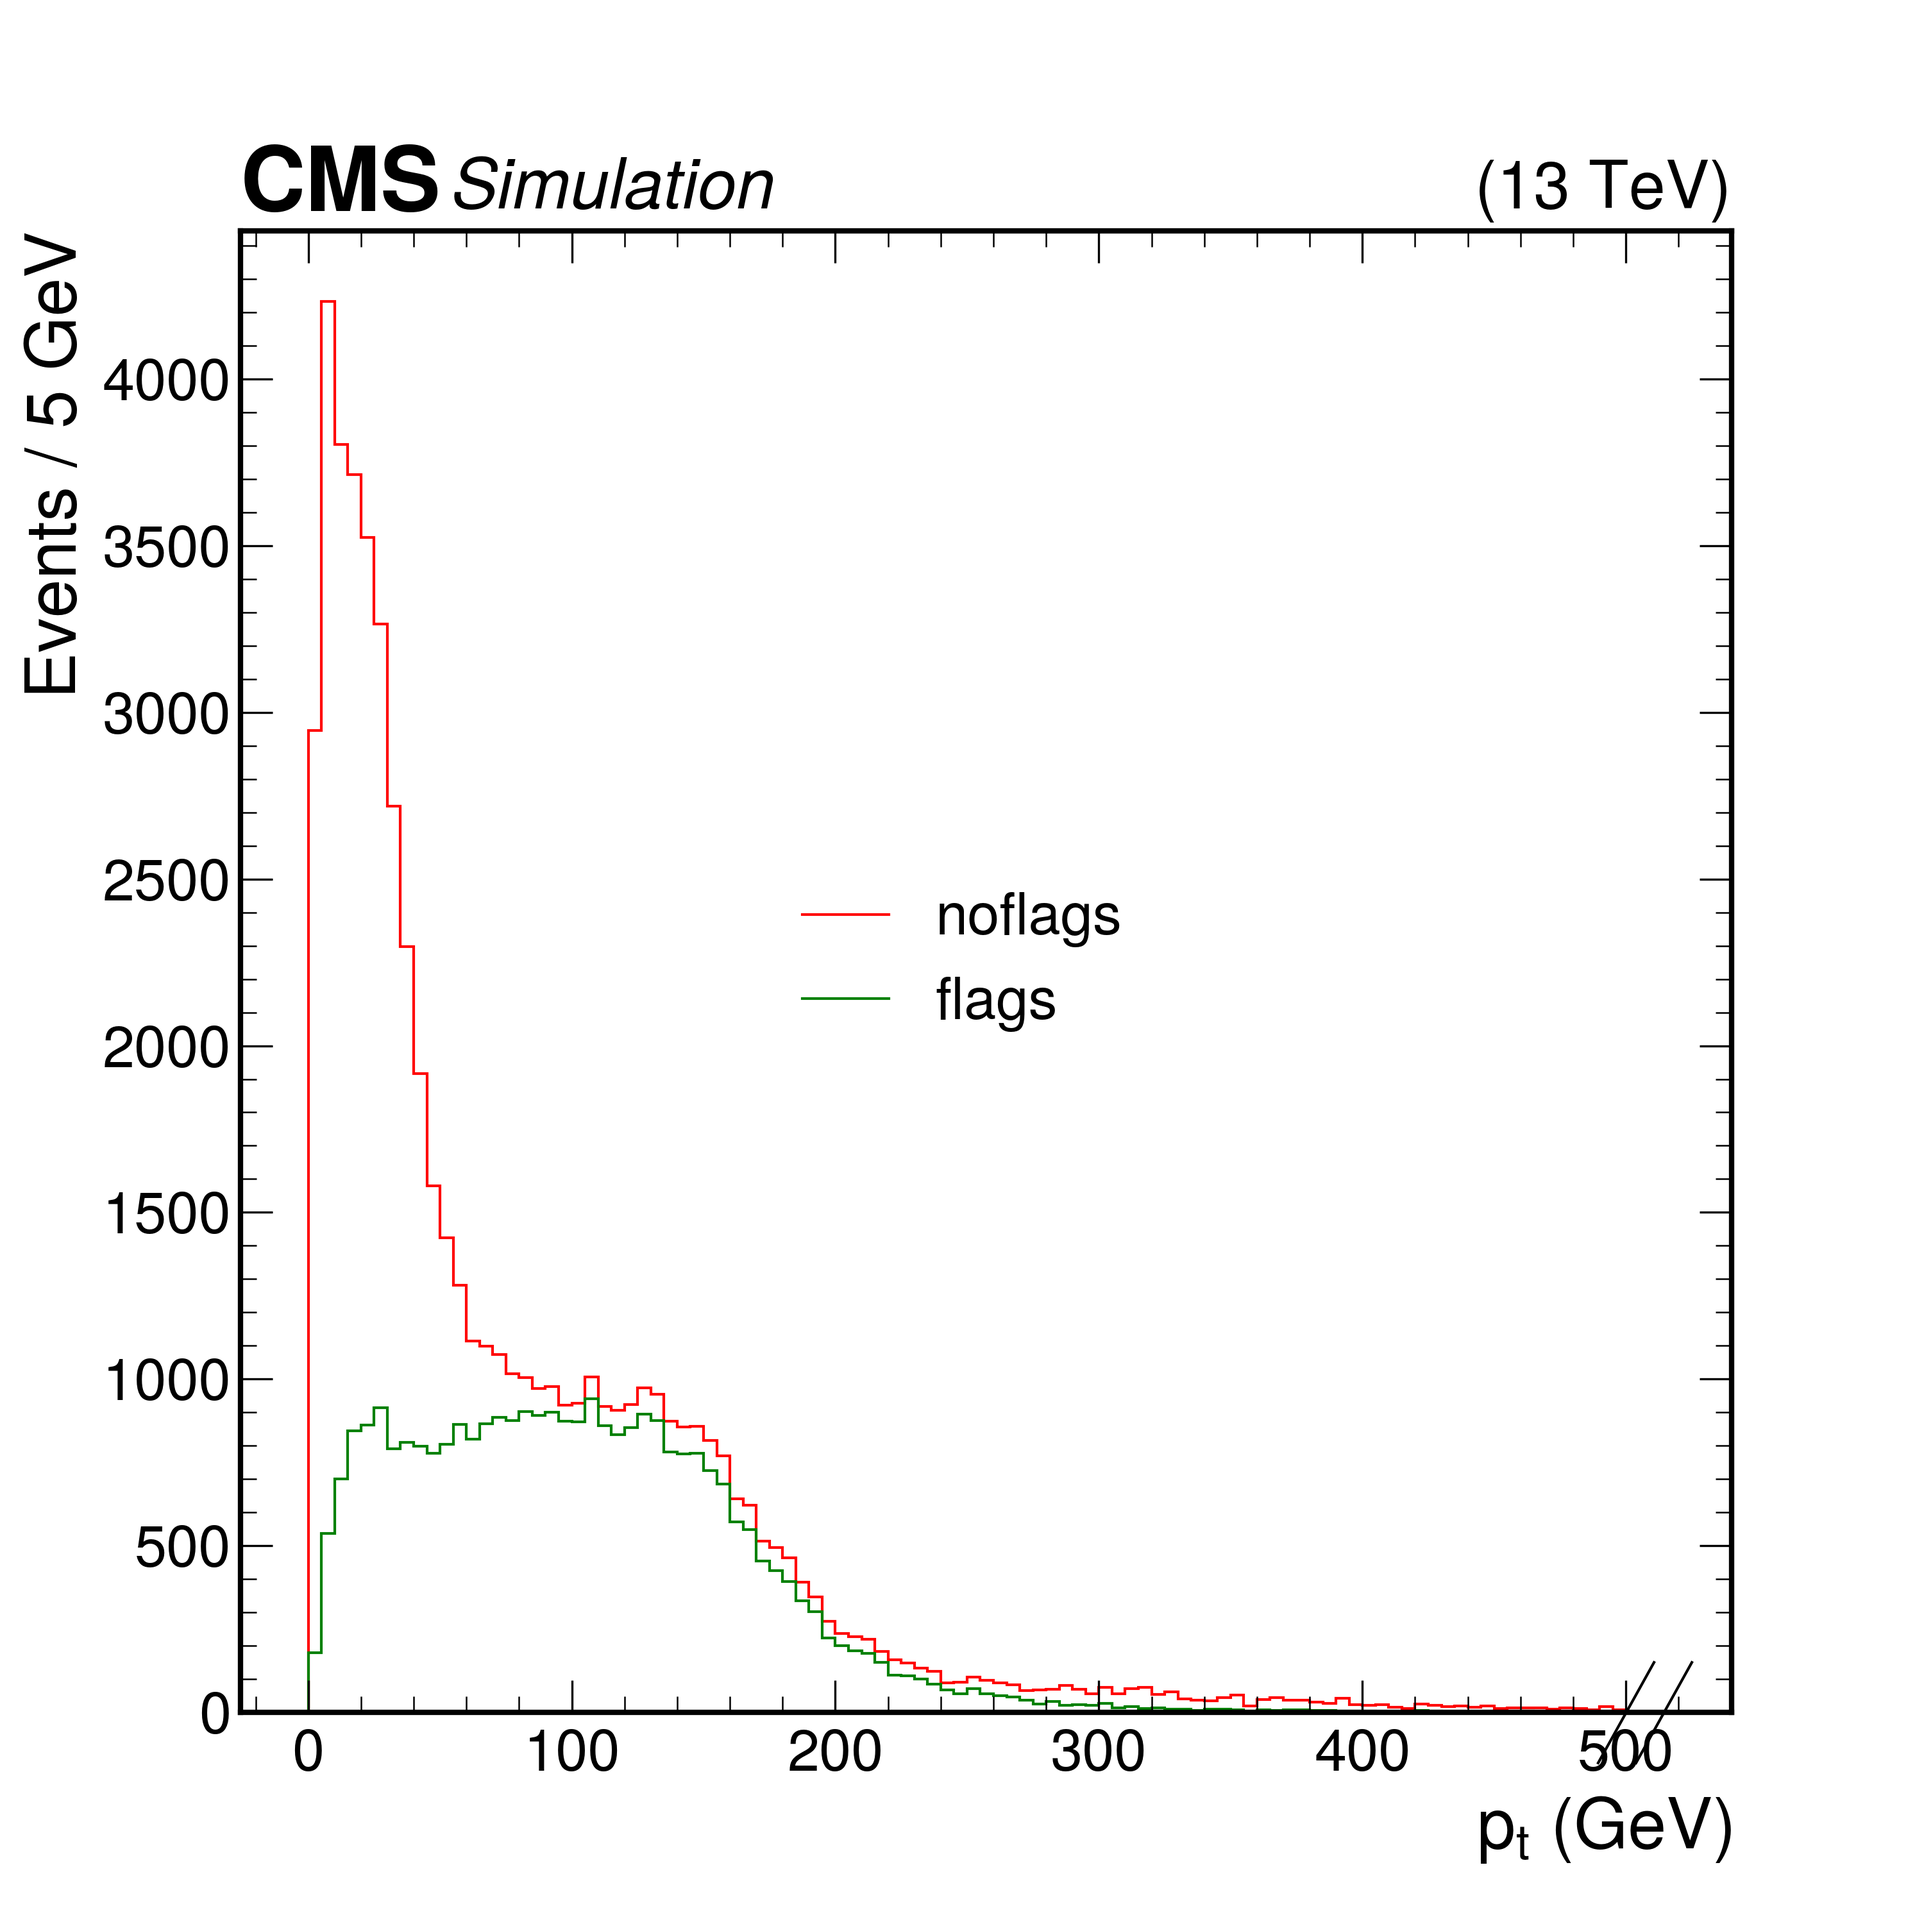
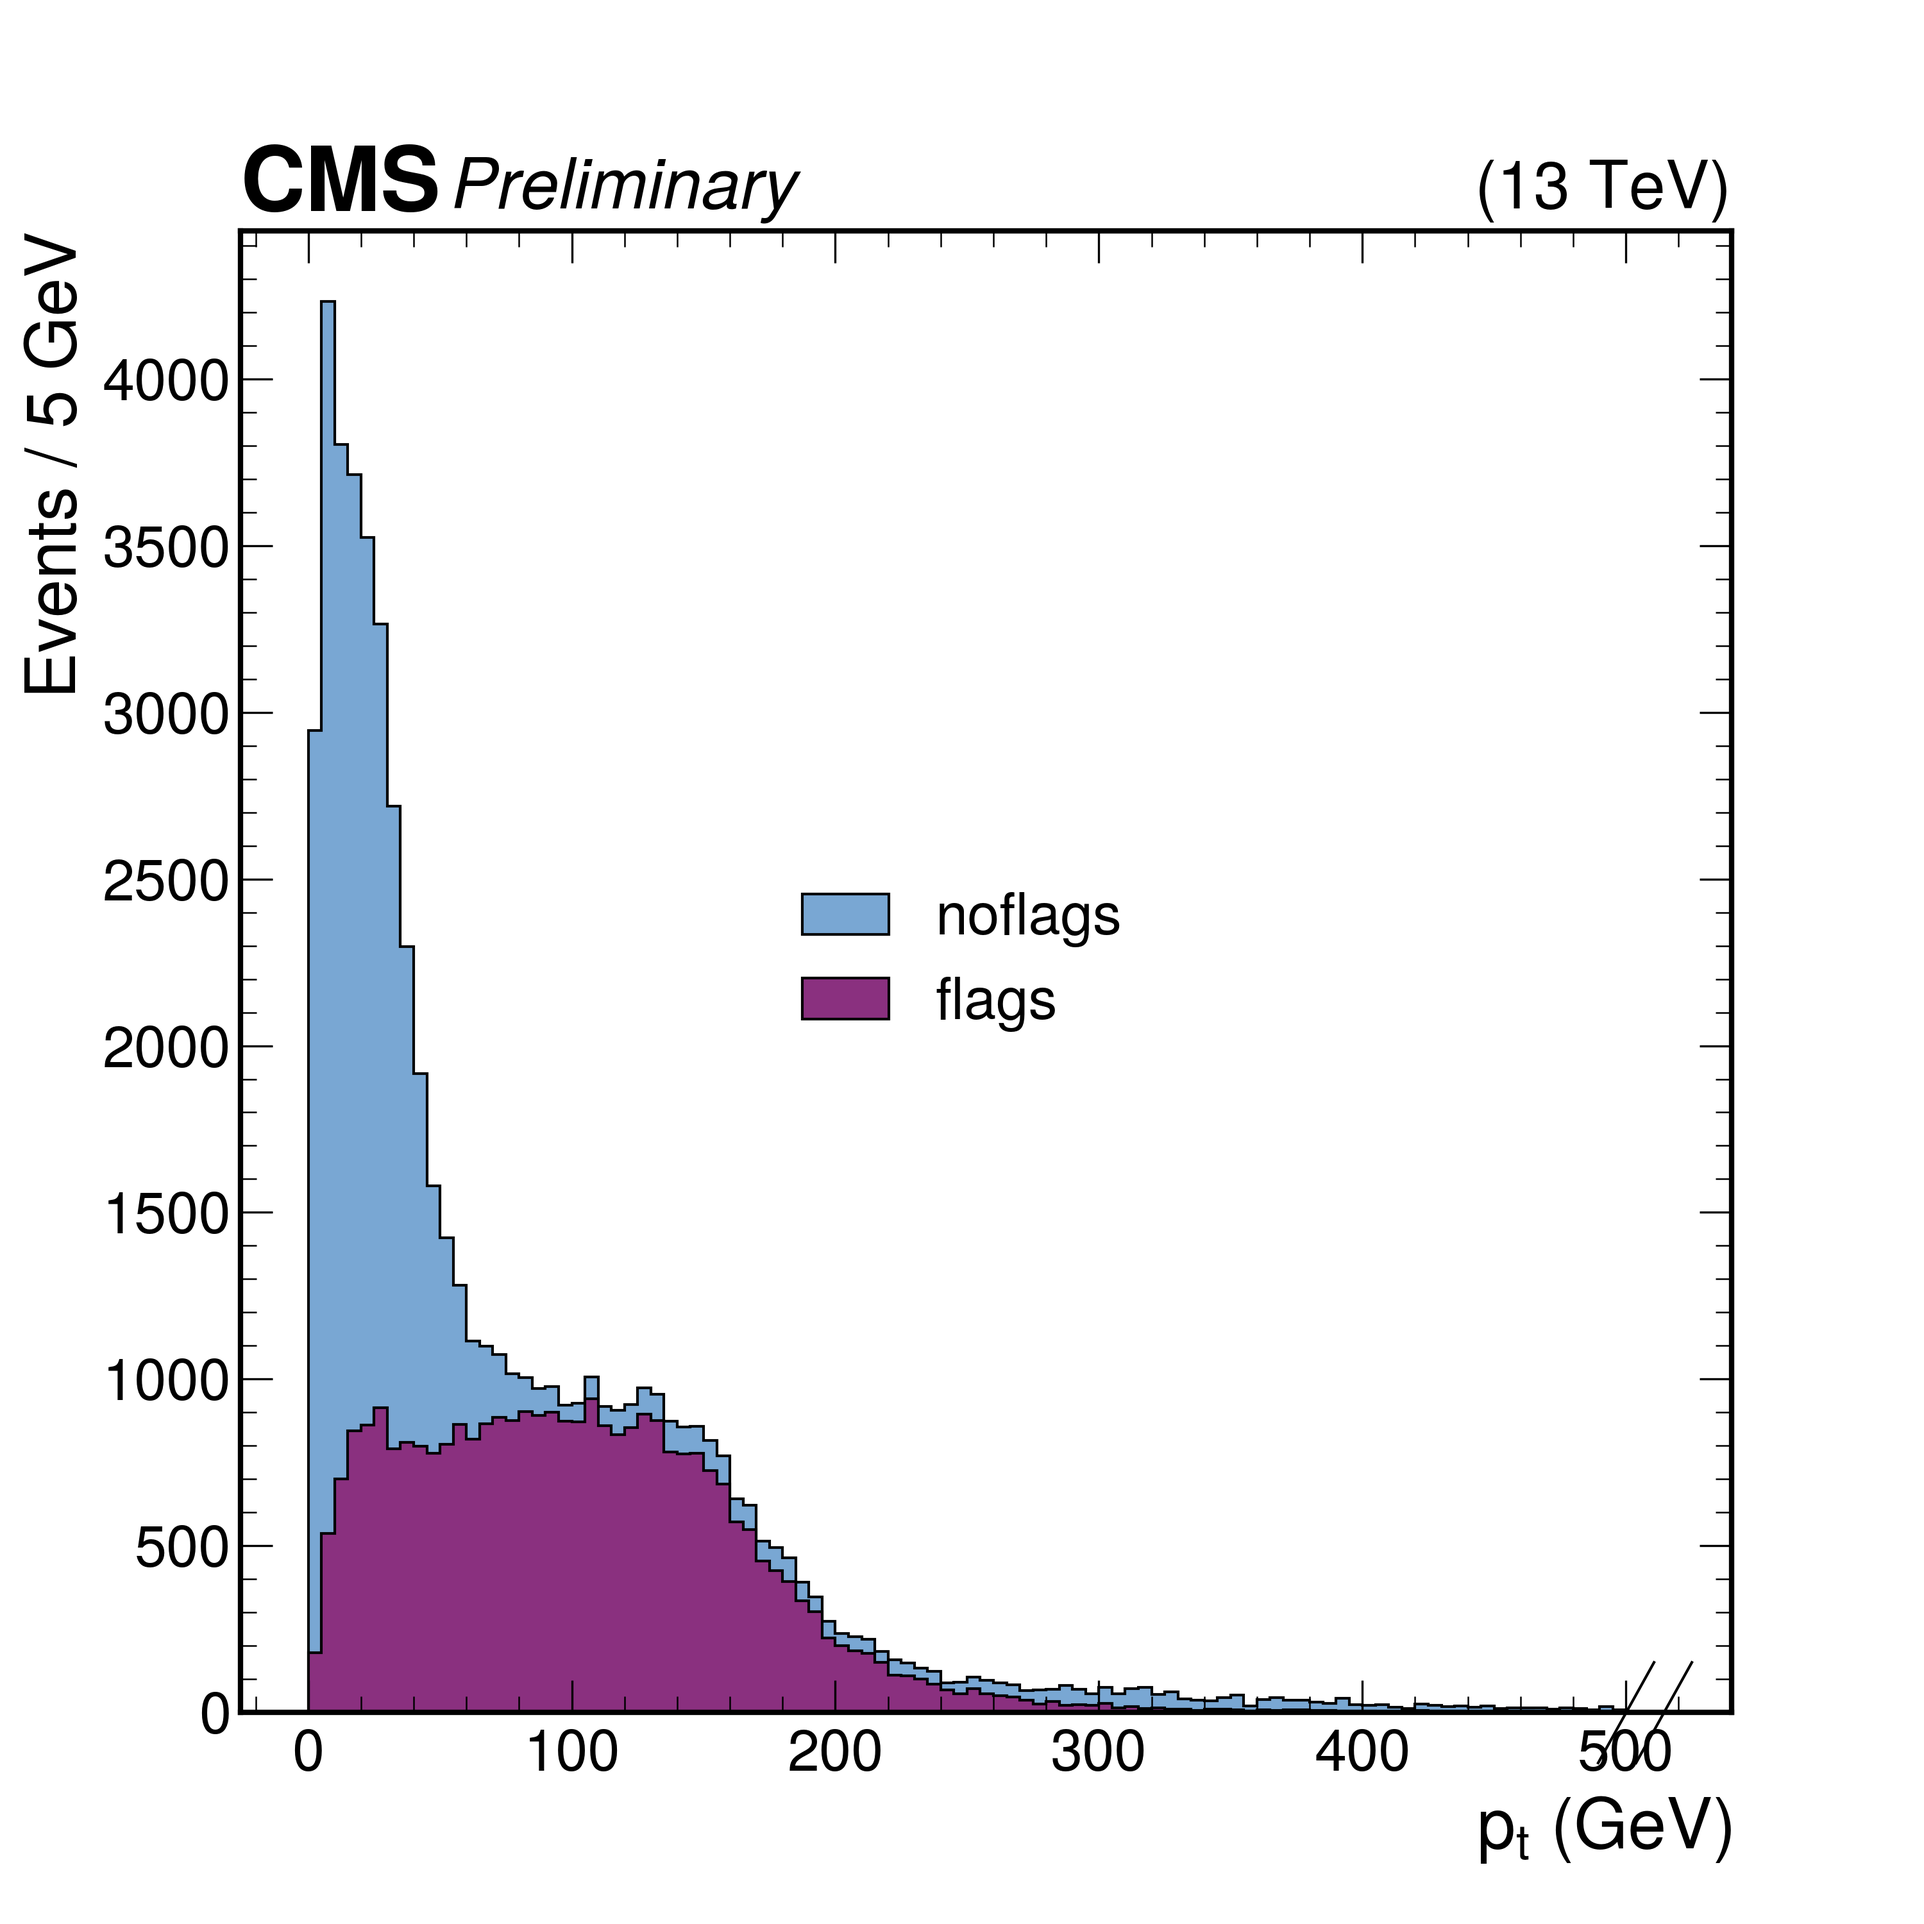
Quick Commit

Changed region(s): [[0.155, 0.155, 0.713, 0.899], [0.248, 0.062, 0.403, 0.124], [0.403, 0.465, 0.465, 0.527]]

diff --git a/Kinematics/plotMETstudy.py b/Kinematics/plotMETstudy.py
@@ -24,8 +24,10 @@ def plot(filename):
     fig, ax = plt.subplots()
     hep.histplot(
         [METhist["noflags",:],METhist["flags",:] ],
-        color=["red","green"],
+        histtype="fill",
+        color=["#79A7D3","#8A307F"],
         label=["noflags","flags"],
+        edgecolor="black",
         lw=1,
         ax=ax
     )
